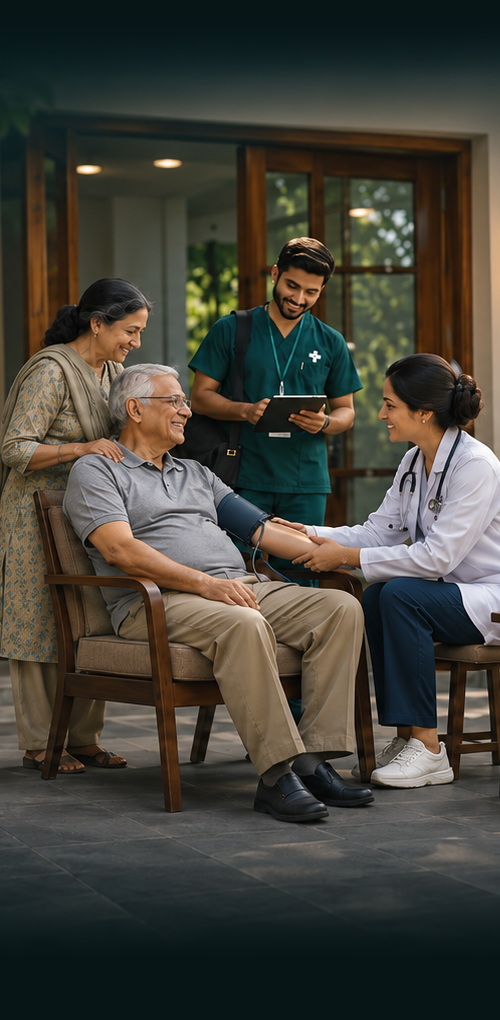
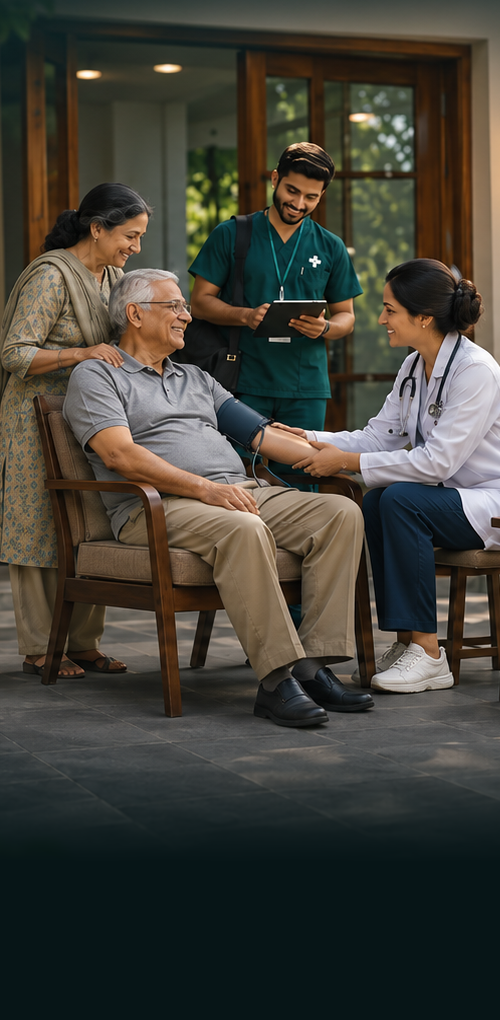
style(home-mobile): elevate bg characters, position trust badge directly above heading, and make healthcare text vibrant green

diff --git a/src/app/globals.css b/src/app/globals.css
@@ -1995,24 +1995,28 @@ h1, h2 {
     height: calc(100% - 71px);
   }
   .hero-copy {
-    top: 24px;
+    position: absolute;
+    top: clamp(285px, 39vh, 320px);
     left: 0;
     right: 0;
     max-width: none;
+    display: flex;
+    flex-direction: column;
+    align-items: flex-start;
   }
   .trust-row {
     font-size: 12px;
-    margin-bottom: 0;
+    margin-bottom: 12px;
     display: inline-flex;
     align-items: center;
     gap: 8px;
-    background: rgba(22, 54, 38, 0.82);
-    backdrop-filter: blur(10px);
-    -webkit-backdrop-filter: blur(10px);
-    border: 1px solid rgba(75, 130, 100, 0.55);
+    background: rgba(18, 48, 33, 0.92);
+    backdrop-filter: blur(12px);
+    -webkit-backdrop-filter: blur(12px);
+    border: 1px solid rgba(75, 130, 100, 0.65);
     border-radius: 9999px;
     padding: 3px 14px 3px 4px;
-    box-shadow: 0 4px 16px rgba(0, 0, 0, 0.2);
+    box-shadow: 0 4px 18px rgba(0, 0, 0, 0.35);
   }
   .trust-avatars {
     display: flex;
@@ -2042,8 +2046,12 @@ h1, h2 {
   .hero-title {
     font-size: clamp(30px, 8vw, 38px);
     line-height: 1.06;
-    margin-top: clamp(260px, 36vh, 300px);
+    margin-top: 0;
     margin-bottom: 16px;
+  }
+  .hero-title-highlight {
+    color: #2ee683;
+    text-shadow: 0 2px 14px rgba(0, 0, 0, 0.8), 0 0 24px rgba(46, 230, 131, 0.45);
   }
   .hero-title-thumb {
     width: 42px;

diff --git a/src/components/home/HeroSection.tsx b/src/components/home/HeroSection.tsx
@@ -78,7 +78,7 @@ export const HeroSection: React.FC = () => {
               <span className="hero-title-thumb" aria-hidden="true">
                 <img src="/assets/hero-heading-smile.jpg" alt="Smiling Doctor" />
               </span>
-              HEALTHCARE
+              <span className="hero-title-highlight">HEALTHCARE</span>
             </span><br />
             ALWAYS
           </h1>
